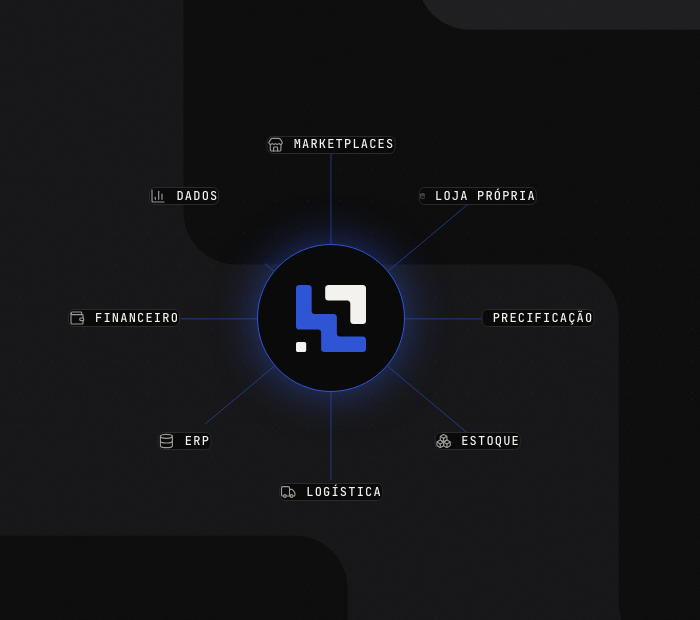
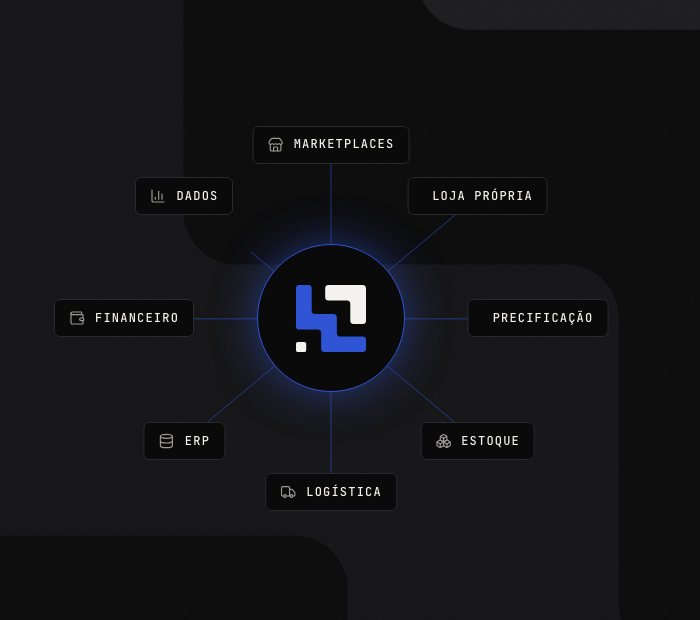
docs: registra o bug de camada CSS e a regra para evitar repetição

Changed region(s): [[0.6, 0.2758, 0.78, 0.3371], [0.39, 0.2452, 0.54, 0.2758], [0.27, 0.2758, 0.3, 0.3065]]

diff --git a/docs/15-auditoria-prototipo.md b/docs/15-auditoria-prototipo.md
@@ -46,3 +46,10 @@ Comparação com os prints do protótipo final (o zip exportado estava desatuali
 Defeitos meus, corrigidos: diagrama girava com etiquetas tortas; SVG e etiquetas escalavam em ritmos diferentes; e-mail quebrando no footer.
 
 **Nota de método:** screenshots por Chrome headless com `--virtual-time-budget` congelam transições CSS no meio e mentem em larguras estreitas. Validar layout pelo navegador real (medindo `scrollWidth` e `getBoundingClientRect`), não por screenshot headless.
+
+### Bug de CSS que mascarou as correções (2026-09-14)
+`globals.css` tinha o reset de elementos fora de camada. No Tailwind v4 o `@import "tailwindcss"` cria as camadas theme/base/components/utilities, e **regra sem camada vence regra em camada**. Resultado: `button { padding: 0 }` anulava `px-*`/`py-*` em **todo botão do site** (etiquetas do diagrama, abas do slider, setas de navegação). Os ajustes de tamanho pareciam não surtir efeito.
+
+Correção: reset de elementos dentro de `@layer base`. Classes de componente (`.btn`, `.card`, `.chip`) seguem sem camada de propósito, para continuarem vencendo as utilitárias.
+
+**Regra para o futuro:** nunca deixar reset de elemento fora de `@layer base` neste projeto. Ao mexer em tamanho, conferir `getComputedStyle(el).padding` no navegador antes de concluir que o valor foi aplicado.

diff --git a/docs/05-decisoes.md b/docs/05-decisoes.md
@@ -79,3 +79,4 @@ Formato: data · decisão · status (proposta / aprovada / revertida) · motivo.
 | 2026-09-14 | Diagrama da hero é estático (sem rotação automática) | aprovada | Etiquetas saíam tortas; protótipo é estático |
 | 2026-09-14 | Etiquetas da hero e abas do slider em 12px mono com tracking 0.1em e mais padding; círculo central 148px | aprovada | Estavam menores que o protótipo |
 | 2026-09-14 | Diagrama da hero posicionado em porcentagem do viewBox 640x560, com aspect-ratio | correção | Antes o SVG escalava e as etiquetas ficavam em px fixos: as linhas paravam antes das etiquetas |
+| 2026-09-14 | Reset de elementos em `@layer base`; classes de componente seguem sem camada | correção | `button{padding:0}` sem camada anulava utilitárias do Tailwind v4 em todo botão |
